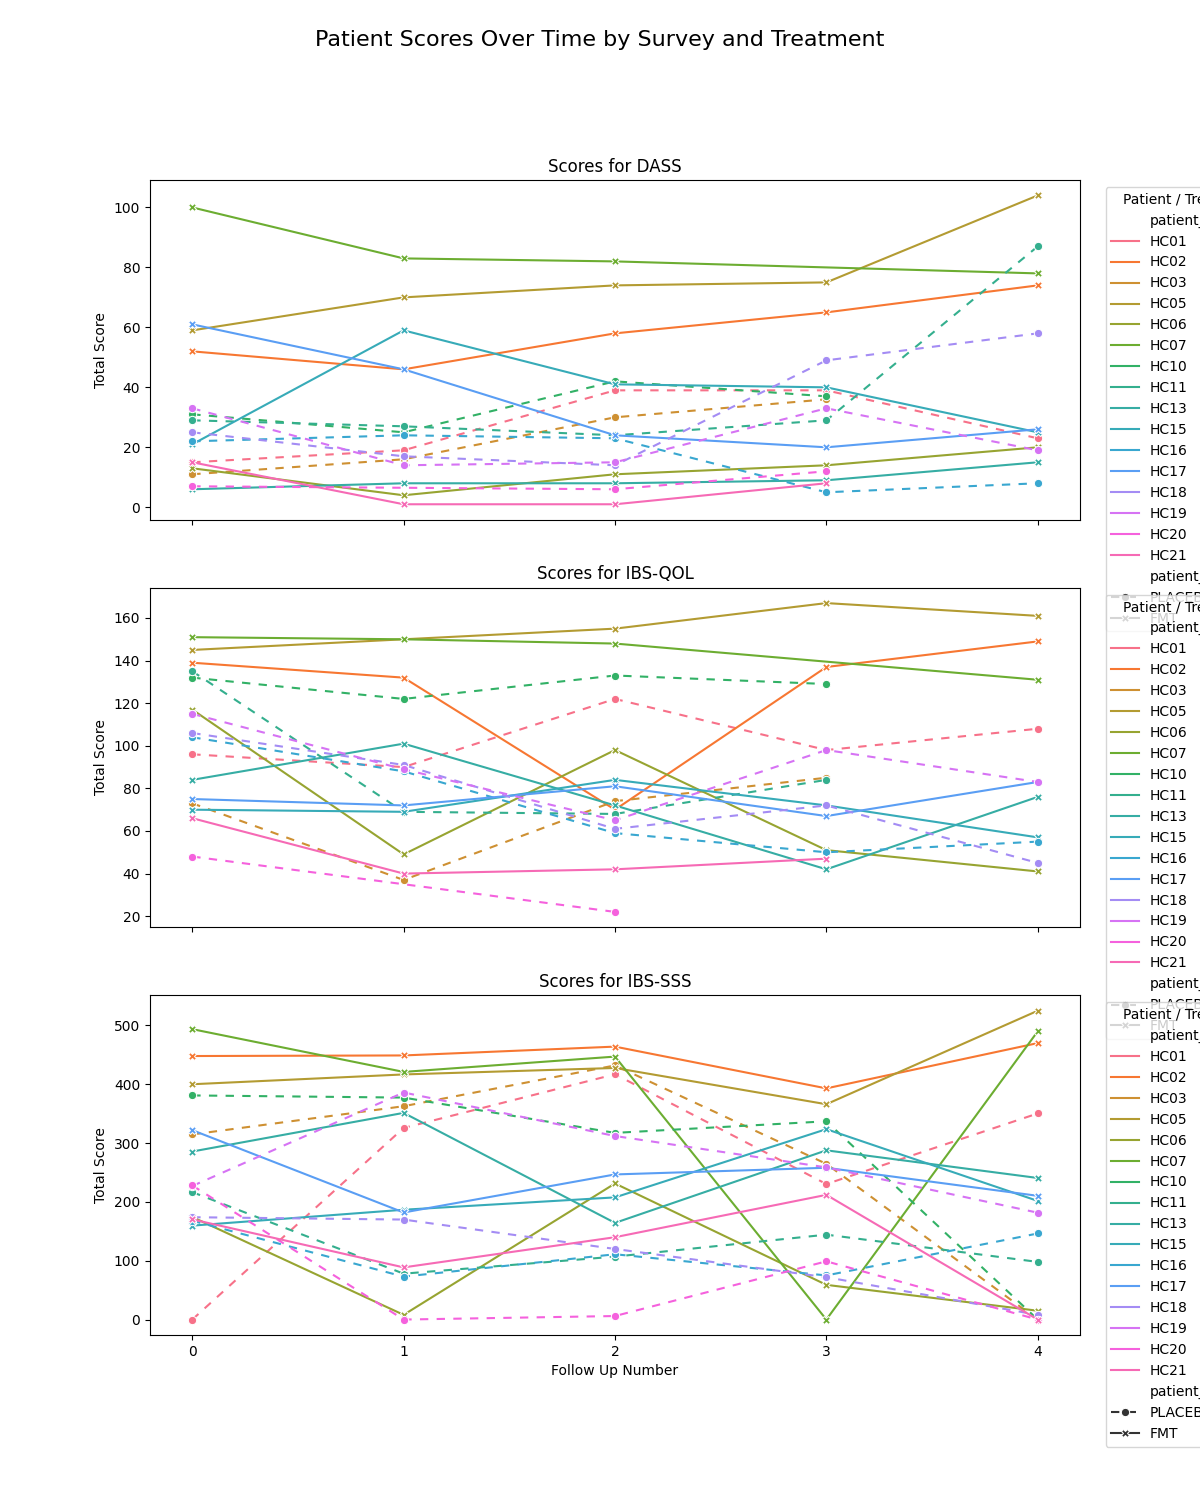
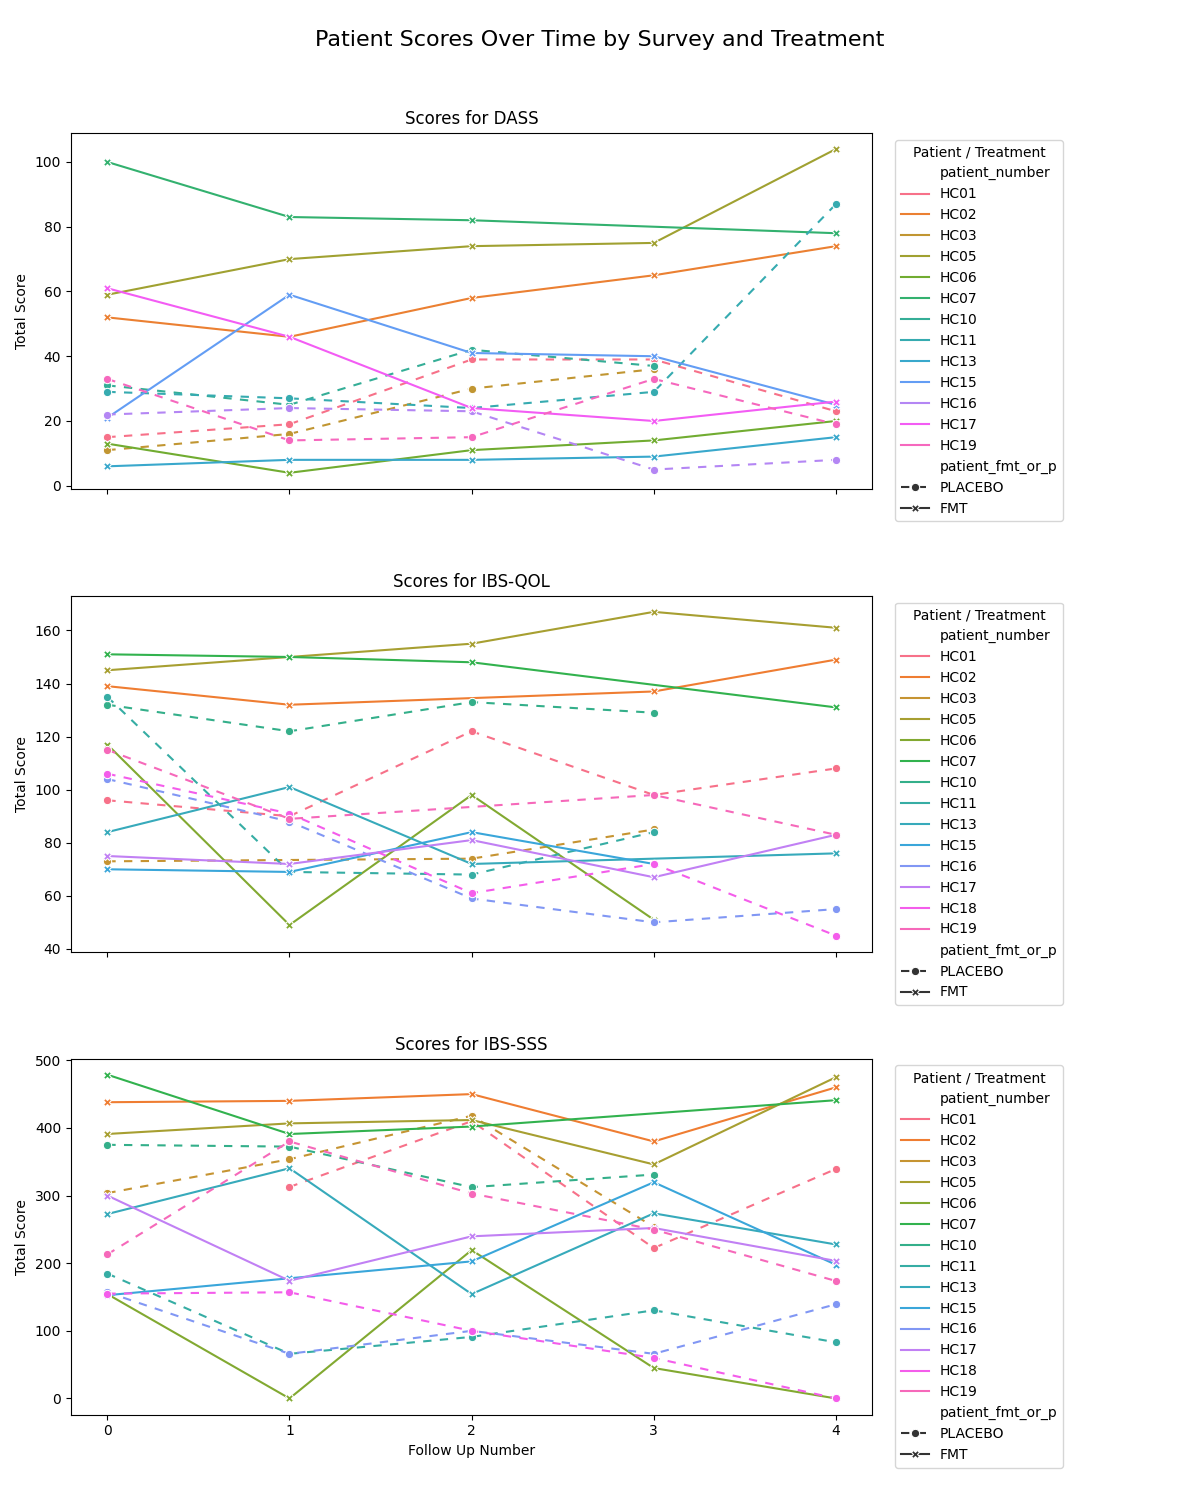
First pass at average graph

diff --git a/plot_scores_with_avg.py b/plot_scores_with_avg.py
@@ -24,7 +24,6 @@ df['patient_number'] = df['patient_number'].astype(str)
 # Ensure patient_fmt_or_p is string and uppercase for consistent mapping
 df['patient_fmt_or_p'] = df['patient_fmt_or_p'].astype(str).str.upper()
 
-
 # Get unique survey names
 survey_names = sorted(df['survey_name'].unique()) # Sort for consistent order
 num_surveys = len(survey_names)
@@ -35,47 +34,59 @@ fig, axes = plt.subplots(nrows=num_surveys, ncols=1, figsize=(12, 5 * num_survey
 if num_surveys == 1: # Ensure axes is always a list for consistent indexing
     axes = [axes]
 
-# Define the style mapping for treatments
-# '' is solid, (4, 4) is a dash pattern (4 points on, 4 points off)
-style_mapping = {'FMT': '', 'PLACEBO': (4, 4)}
+# Define colors for treatments
+color_mapping = {'FMT': 'green', 'PLACEBO': 'orange'}
 
 # Create a plot for each survey on its respective subplot
 for i, survey_name in enumerate(survey_names):
     ax = axes[i]
-    # Use .copy() to avoid SettingWithCopyWarning when potentially modifying survey_df later (though not in this version)
     survey_df = df[df['survey_name'] == survey_name].copy()
 
-    # Sum scores per patient, per follow-up, per survey, including treatment type for styling
+    # Sum scores per patient, per follow-up, per survey
     patient_scores_over_time = survey_df.groupby(
         ['patient_number', 'follow_up_number', 'patient_fmt_or_p']
     )['score'].sum().reset_index()
 
-    if patient_scores_over_time.empty:
-        ax.set_title(f'Scores for {survey_name} (No Data)')
-        ax.set_ylabel('Total Score')
-        print(f"No data to plot for survey: {survey_name} after processing. Skipping subplot.")
-        continue
+    # Calculate statistics for each follow-up number
+    stats = patient_scores_over_time.groupby('follow_up_number')['score'].agg([
+        'mean',
+        lambda x: np.percentile(x, 25),  # Q1
+        lambda x: np.percentile(x, 75)   # Q3
+    ]).reset_index()
+    stats.columns = ['follow_up_number', 'mean', 'q1', 'q3']
 
-    sns.lineplot(
-        data=patient_scores_over_time,
-        x='follow_up_number',
-        y='score',
-        hue='patient_number',
-        style='patient_fmt_or_p',
-        dashes=style_mapping, # Apply custom dash styles based on 'patient_fmt_or_p'
-        markers=True, # Add markers to data points
-        ax=ax,
-        legend='full' # Seaborn will generate a combined legend
-    )
+    # Plot individual points
+    for treatment in ['FMT', 'PLACEBO']:
+        treatment_data = patient_scores_over_time[patient_scores_over_time['patient_fmt_or_p'] == treatment]
+        ax.scatter(
+            treatment_data['follow_up_number'],
+            treatment_data['score'],
+            color=color_mapping[treatment],
+            alpha=0.6,  # Slightly transparent
+            label=f'{treatment} Patients'
+        )
+
+    # Plot mean line
+    ax.plot(stats['follow_up_number'], stats['mean'], 
+            color='black', 
+            linewidth=2, 
+            label='Mean Score')
+
+    # Plot interquartile range
+    ax.fill_between(stats['follow_up_number'],
+                    stats['q1'],
+                    stats['q3'],
+                    color='gray',
+                    alpha=0.2,
+                    label='Interquartile Range')
 
     ax.set_title(f'Scores for {survey_name}')
     ax.set_ylabel('Total Score')
     # Ensure all follow-up numbers are shown as ticks
     ax.set_xticks(sorted(patient_scores_over_time['follow_up_number'].unique()))
     
-    # Adjust legend position to avoid overlap with the plot
-    # Title for the legend combines patient and treatment info
-    ax.legend(title='Patient / Treatment', bbox_to_anchor=(1.02, 1), loc='upper left')
+    # Add legend
+    ax.legend(bbox_to_anchor=(1.02, 1), loc='upper left')
 
 # Set common X-axis label on the last subplot
 axes[-1].set_xlabel('Follow Up Number')
@@ -84,11 +95,14 @@ axes[-1].set_xlabel('Follow Up Number')
 fig.suptitle('Patient Scores Over Time by Survey and Treatment', fontsize=16)
 
 # Adjust layout to make space for legends and suptitle
-# rect=[left, bottom, right, top] - may need fine-tuning
 plt.tight_layout(rect=[0, 0, 0.90, 0.96]) 
 
+# Create results directory if it doesn't exist
+import os
+os.makedirs('results', exist_ok=True)
+
 # Save the combined plot
-combined_plot_filename = "results/all_surveys_scores_plot_combined.png"
+combined_plot_filename = "results/all_surveys_scores_with_avg_plot.png"
 plt.savefig(combined_plot_filename)
 print(f"Combined plot saved as {combined_plot_filename}")
 plt.close(fig) # Close the figure to free memory

diff --git a/plot_scores_hor.py b/plot_scores_hor.py
@@ -103,7 +103,7 @@ fig.suptitle('Patient Scores: Start (FU 0) vs. End (FU 4) by Survey', fontsize=1
 fig.subplots_adjust(left=0.07, right=0.97, bottom=0.15, top=0.90, wspace=0.35)
 
 # Save the combined plot
-combined_plot_filename = "all_surveys_start_end_plot.png"
+combined_plot_filename = "results/all_surveys_start_end_plot.png"
 plt.savefig(combined_plot_filename)
 print(f"Combined plot saved as {combined_plot_filename}")
 plt.close(fig)
